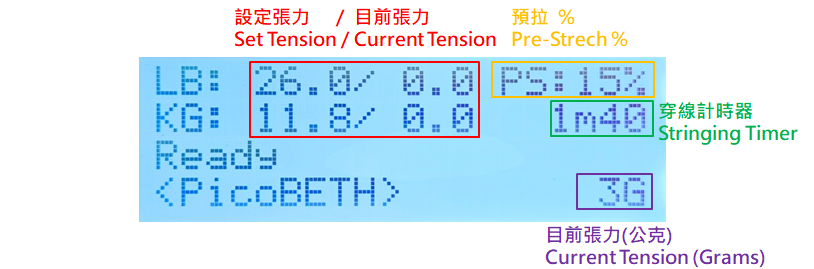
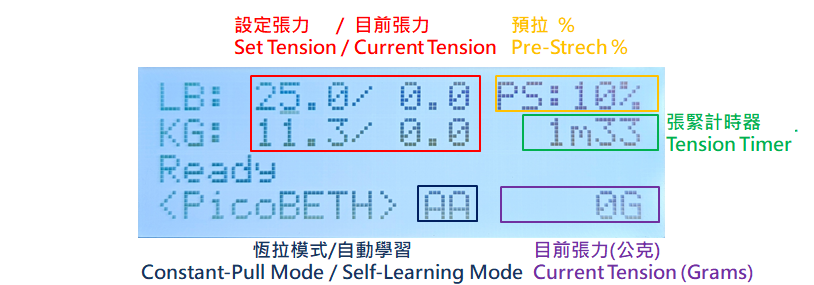
1. 修正說明檔

Changed region(s): [[0.1536, 0.0297, 0.9828, 1.0]]

diff --git a/README.md b/README.md
@@ -172,26 +172,10 @@ Calibration method:
 Reference video: [https://youtu.be/JaplgmXzbjY](https://youtu.be/JaplgmXzbjY)
 
 ## Set the CC Parameter
-When the motor stops at the specified tension, the actual tension will continue to change. Another coefficient needs to be set to correct this, which can be set manually or automatically on the settings page.
-
-Calibration method:
-1. Fix the badminton string, attach one end to the stringing machine and the other end to the clamp.
-2. On the LCD settings page, press the AUTO button in the CC field using the up or down key to start stringing.
-3. AUTO will automatically fill in the reference CC value.
-4. Use this value to string and test. The optimal result is when there is no fine-tuning action when reaching the specified tension with pre-stretch set to 0.
-   (You may see the tension on the LCD continue to change beyond the specified tension when the motor stops. This is a normal physical phenomenon. The best parameter is when the tension stabilizes after balancing and there is no fine-tuning action at the specified tension.)
-5. If the automatically calculated CC value is not ideal, manually fine-tune the CC value on the settings page and repeat step 4 to find the optimal value.
-
-> [!WARNING]
-> If pre-stretch is enabled, , fine adjustments will be made for poundage compensation, so set pre-stretch to 0 during testing.
+After version 1.70, an automatic learning function has been added. Stringing multiple times to stabilize the CC values. Alternatively, you can disable the learning function and manually configure the settings.
 
 > [!IMPORTANT]
-> Changing the HX711 circuit board, sliding table pitch, or motor will affect this coefficient. If you find frequent fine-tuning at pre-stretch 0, you can calibrate this value.
-
-> [!IMPORTANT]
-> This parameter is mainly based on setting storage (config.cfg).
-
-Reference video: [https://youtu.be/KuisR6eKiwk](https://youtu.be/KuisR6eKiwk)
+> Improper settings may lead to frequent fine-tuning.
 
 # Conclusion
 If you encounter any issues during the manufacturing process, feel free to discuss them in the comments or send me an email with your inquiries.
